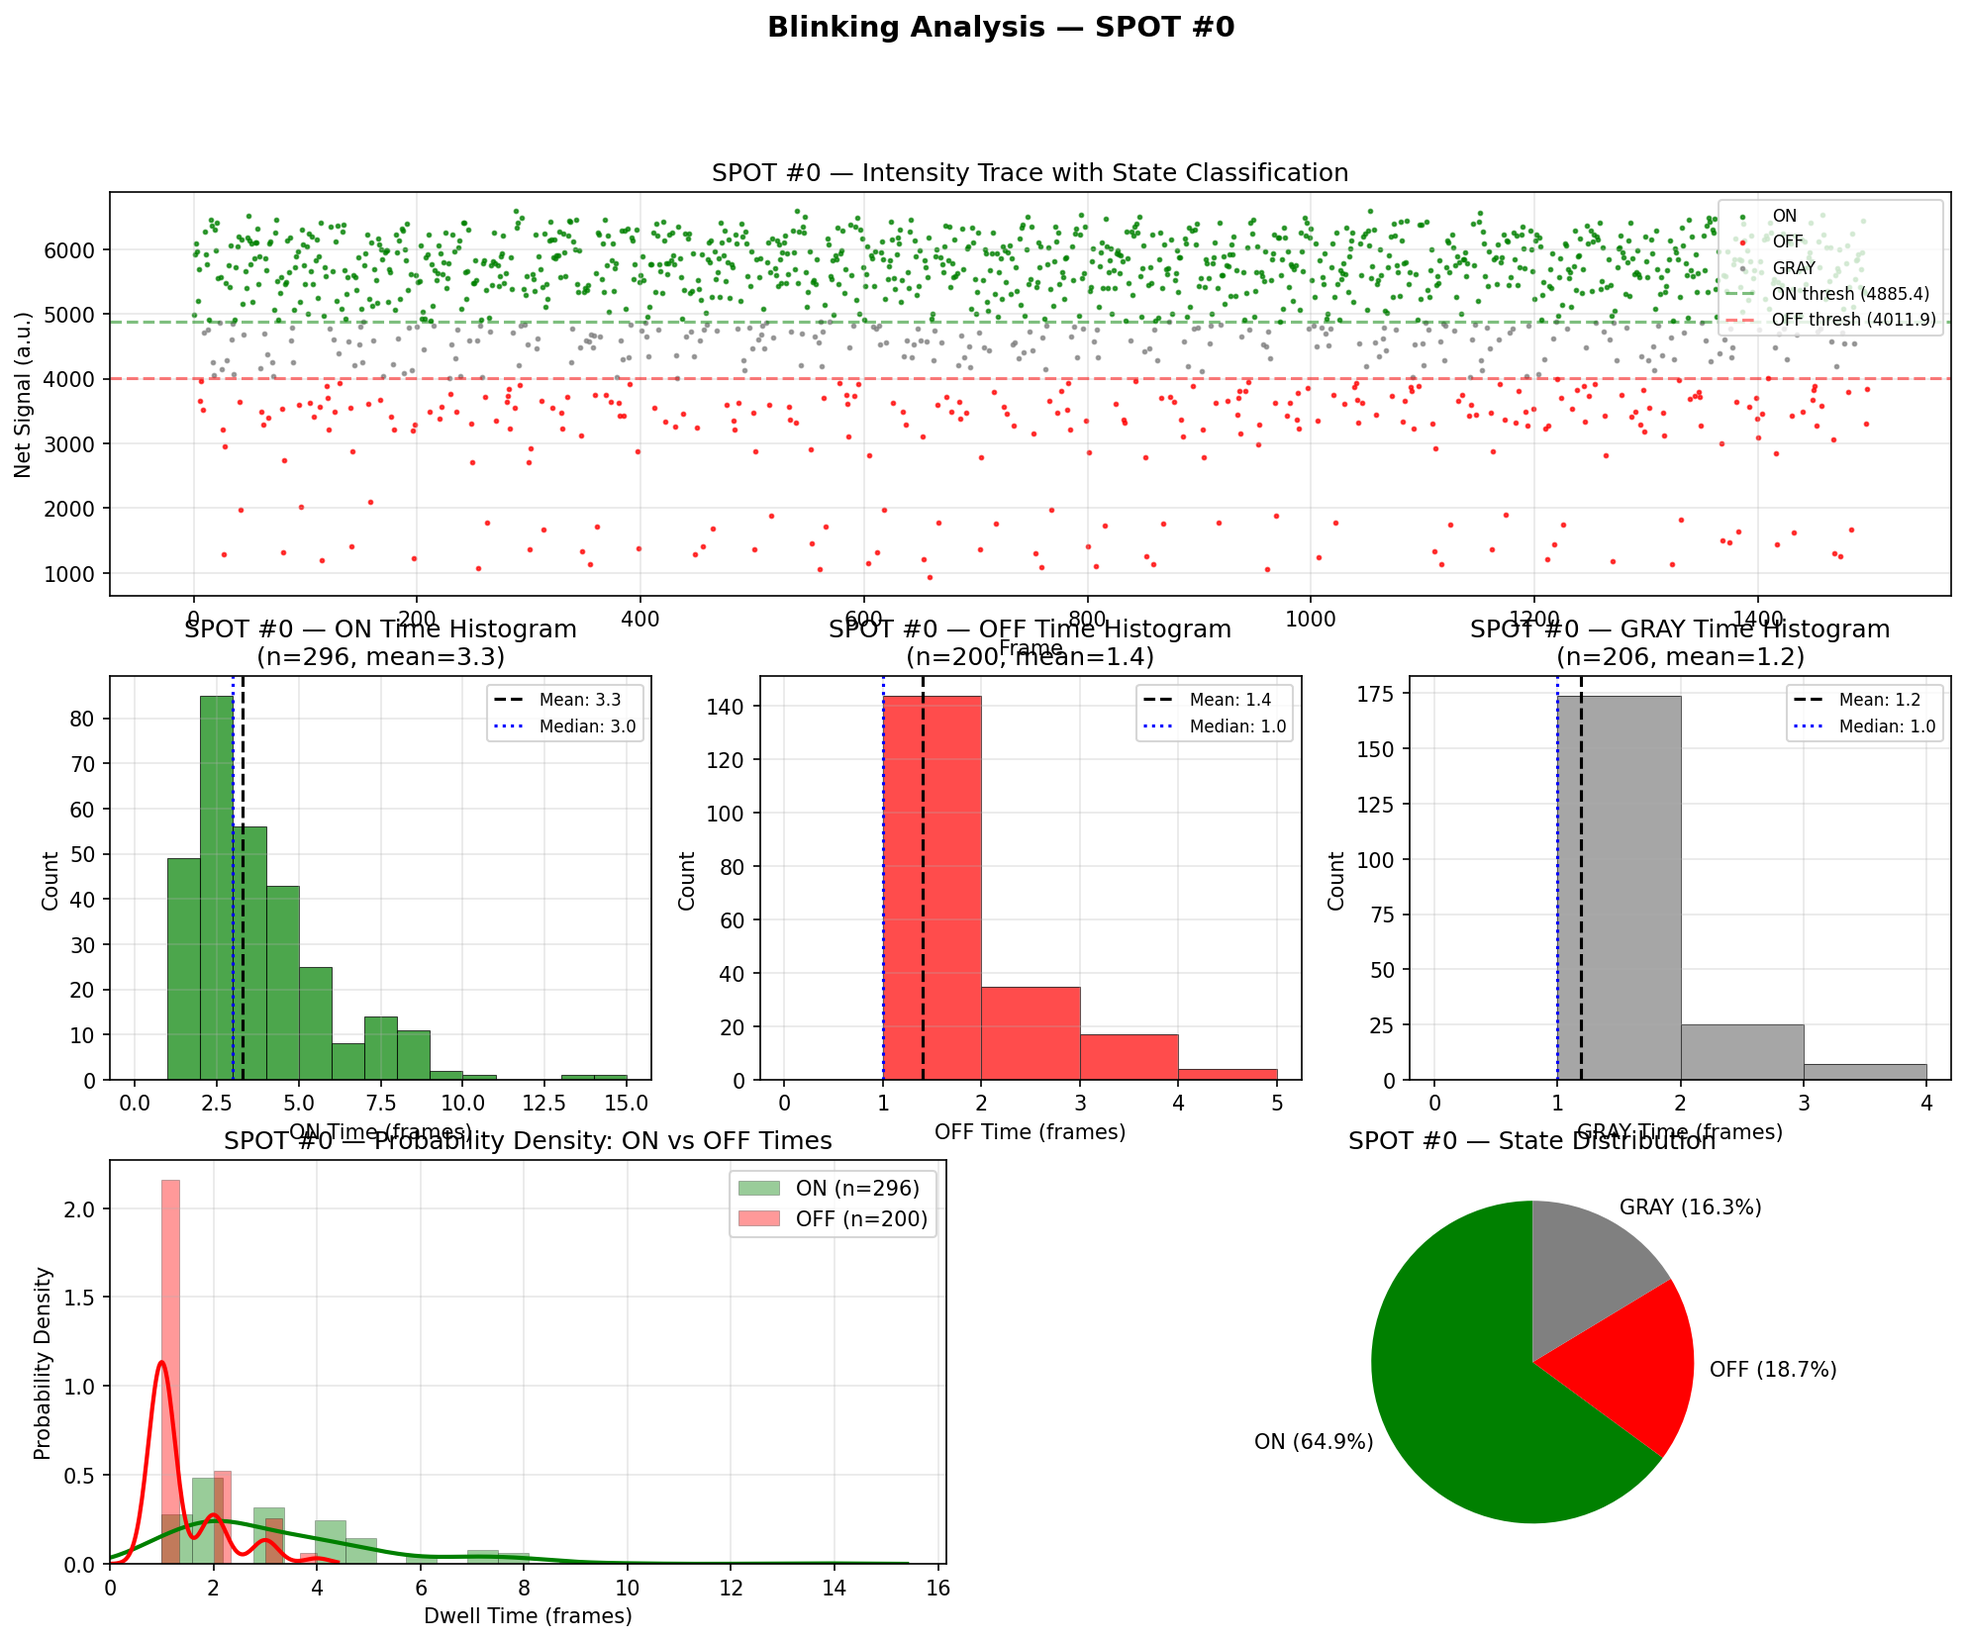
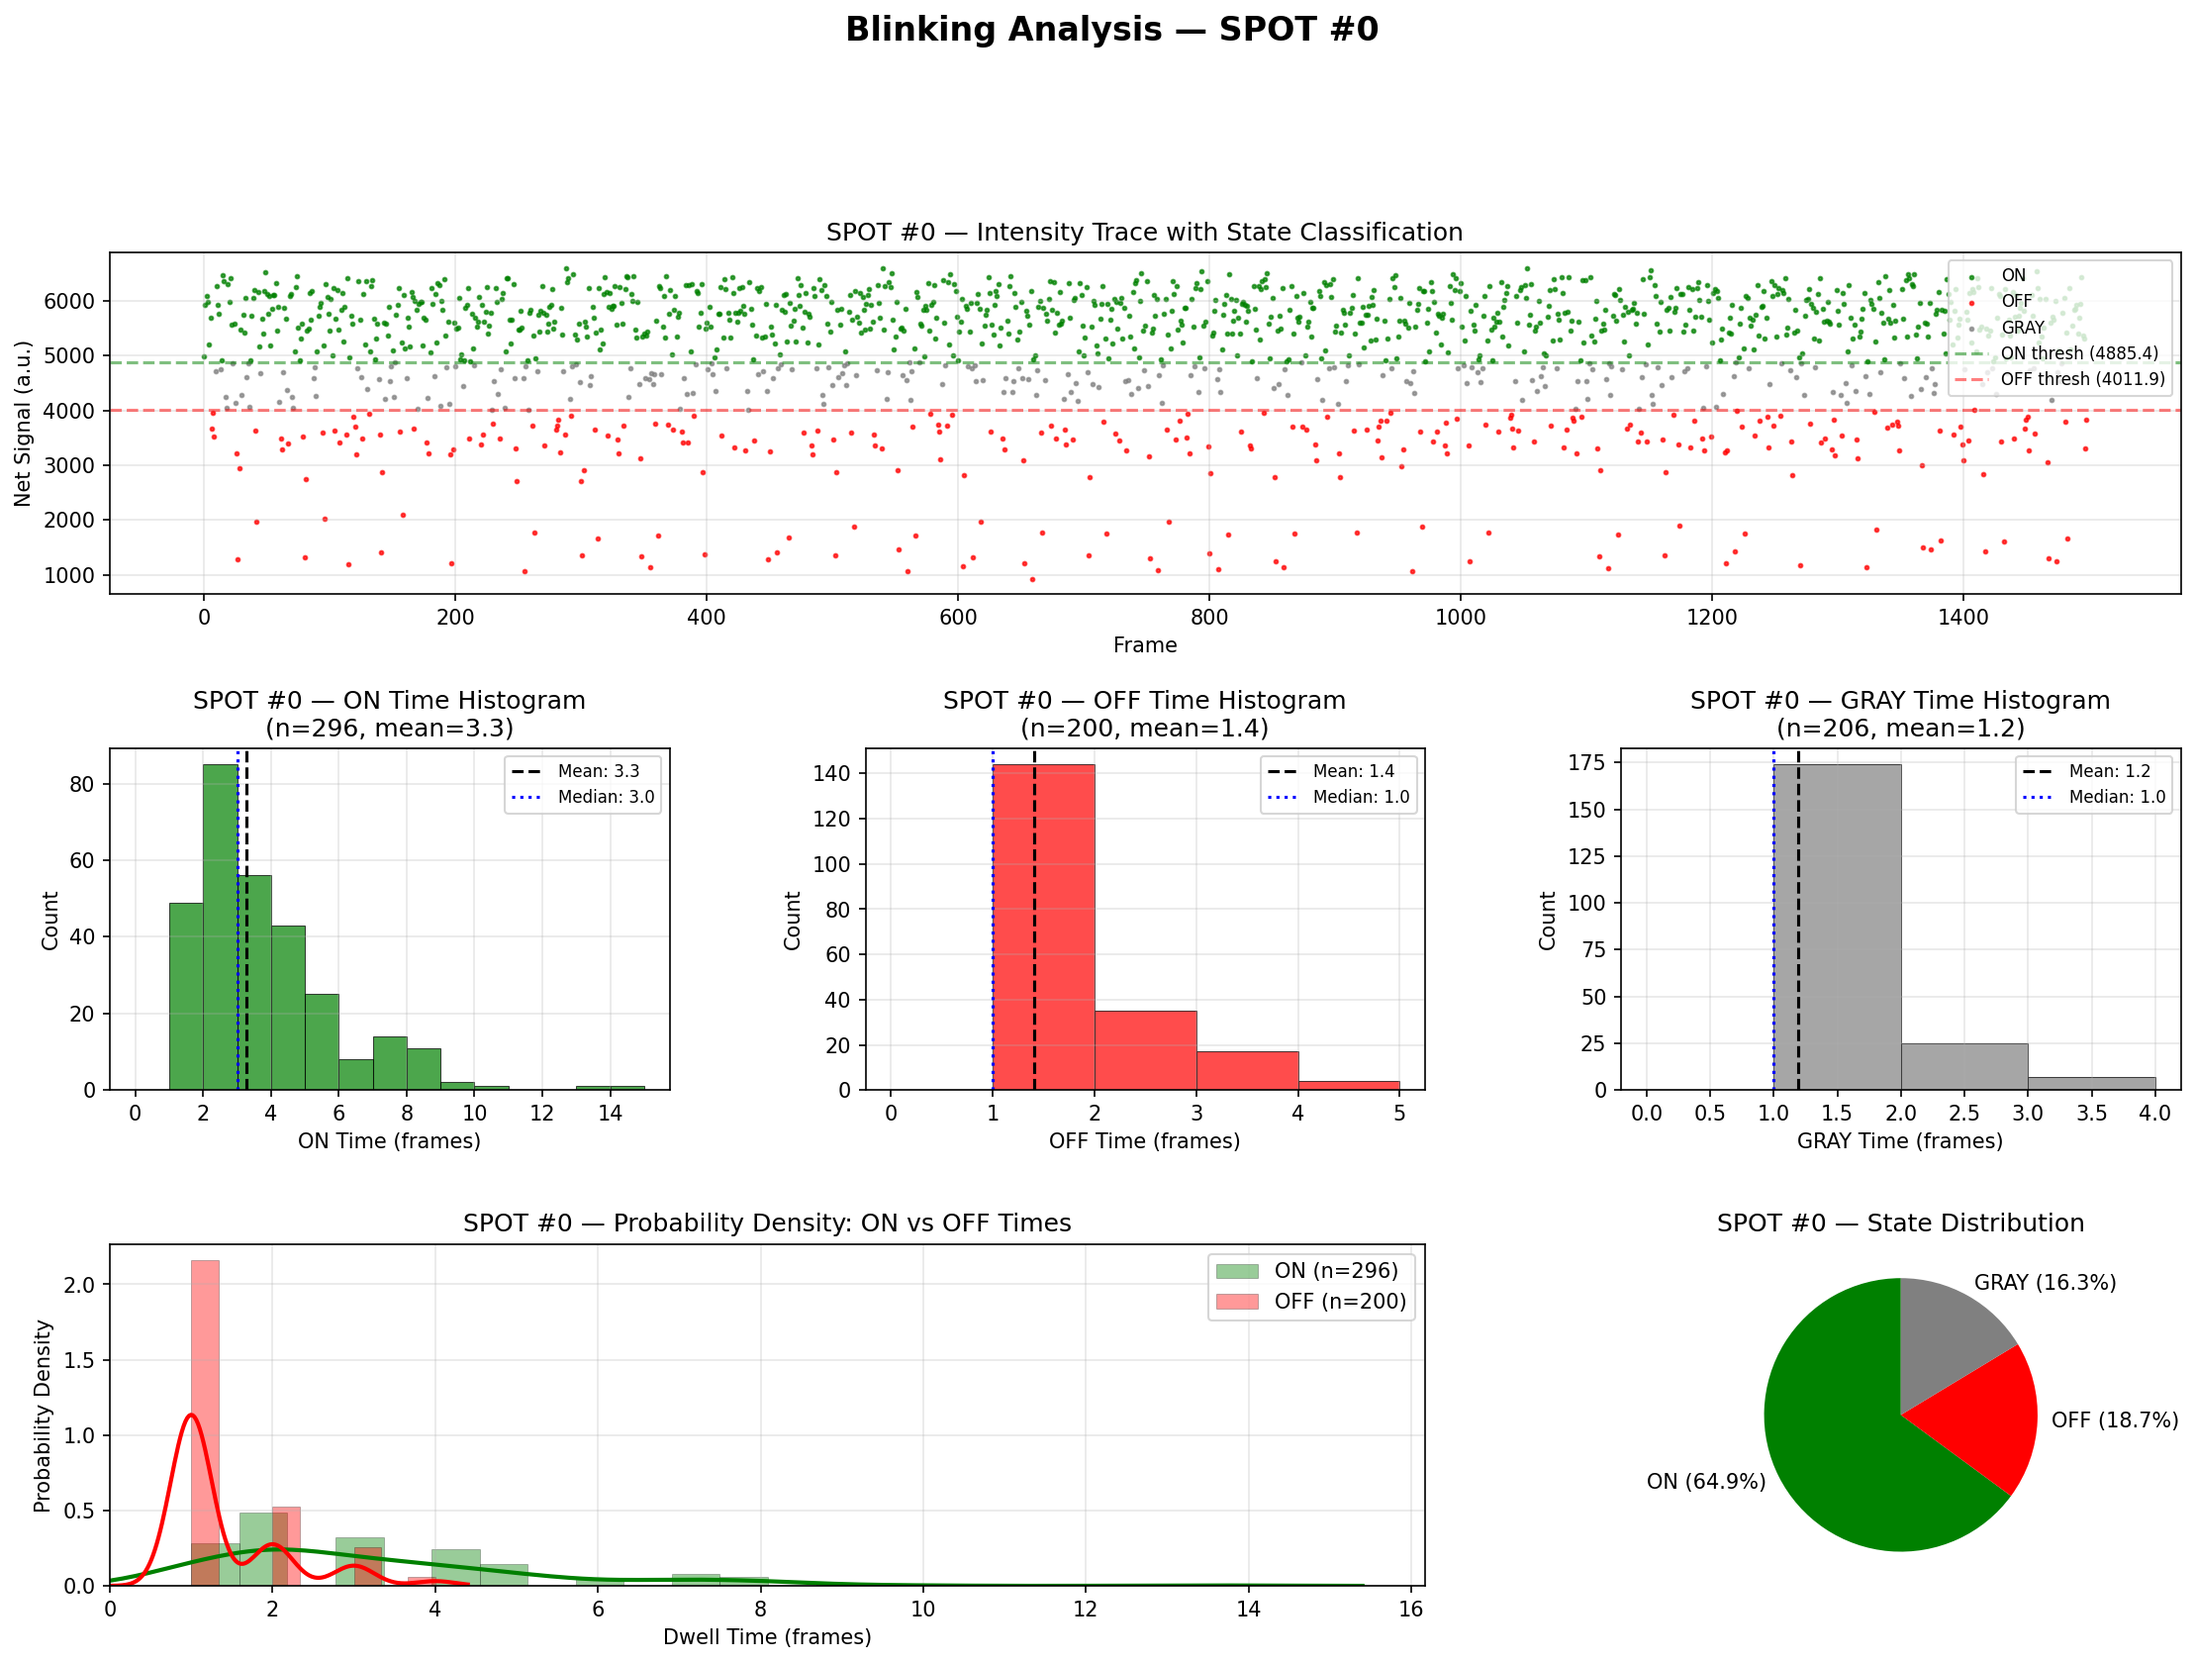
Improve blinking analysis chart layout: larger figure, more spacing

diff --git a/analyze_blinking.py b/analyze_blinking.py
@@ -264,27 +264,28 @@ def analyze_spot(df_spot, spot_id, on_thresh_frac, off_thresh_frac, frame_time=1
     }
     
     # Create comprehensive figure using GridSpec for flexible layout
-    fig = plt.figure(figsize=(16, 12))
-    fig.suptitle(f'Blinking Analysis — SPOT #{spot_id}', fontsize=14, fontweight='bold', y=0.98)
+    fig = plt.figure(figsize=(18, 16))
+    fig.suptitle(f'Blinking Analysis — SPOT #{spot_id}', fontsize=16, fontweight='bold', y=0.98)
     
     import matplotlib.gridspec as gridspec
-    gs = gridspec.GridSpec(3, 3, figure=fig, hspace=0.35, wspace=0.3)
+    gs = gridspec.GridSpec(4, 3, figure=fig, hspace=0.45, wspace=0.35,
+                           height_ratios=[1, 1, 1, 1])
     
     # 1. Trace with states (top row, full width)
     ax_trace = fig.add_subplot(gs[0, :])
     plot_trace_with_states(frames, intensity, states, thresholds, spot_id, ax=ax_trace)
     
-    # 2. Histograms (middle row)
+    # 2. Histograms (second row, each in its own cell with more space)
     ax_on = fig.add_subplot(gs[1, 0])
     ax_off = fig.add_subplot(gs[1, 1])
     ax_gray = fig.add_subplot(gs[1, 2])
     plot_dwell_histograms(dwell_times, spot_id, frame_time, ax_on, ax_off, ax_gray)
     
-    # 3. Probability density (bottom left, spans 2 columns)
+    # 3. Probability density (third row, spans 2 columns)
     ax_pdf = fig.add_subplot(gs[2, 0:2])
     plot_probability_density(dwell_times, spot_id, frame_time, ax=ax_pdf)
     
-    # 4. State pie chart (bottom right)
+    # 4. State pie chart (third row, right)
     ax_pie = fig.add_subplot(gs[2, 2])
     state_counts = [np.sum(states == s) for s in ['ON', 'OFF', 'GRAY']]
     colors_pie = ['green', 'red', 'gray']
